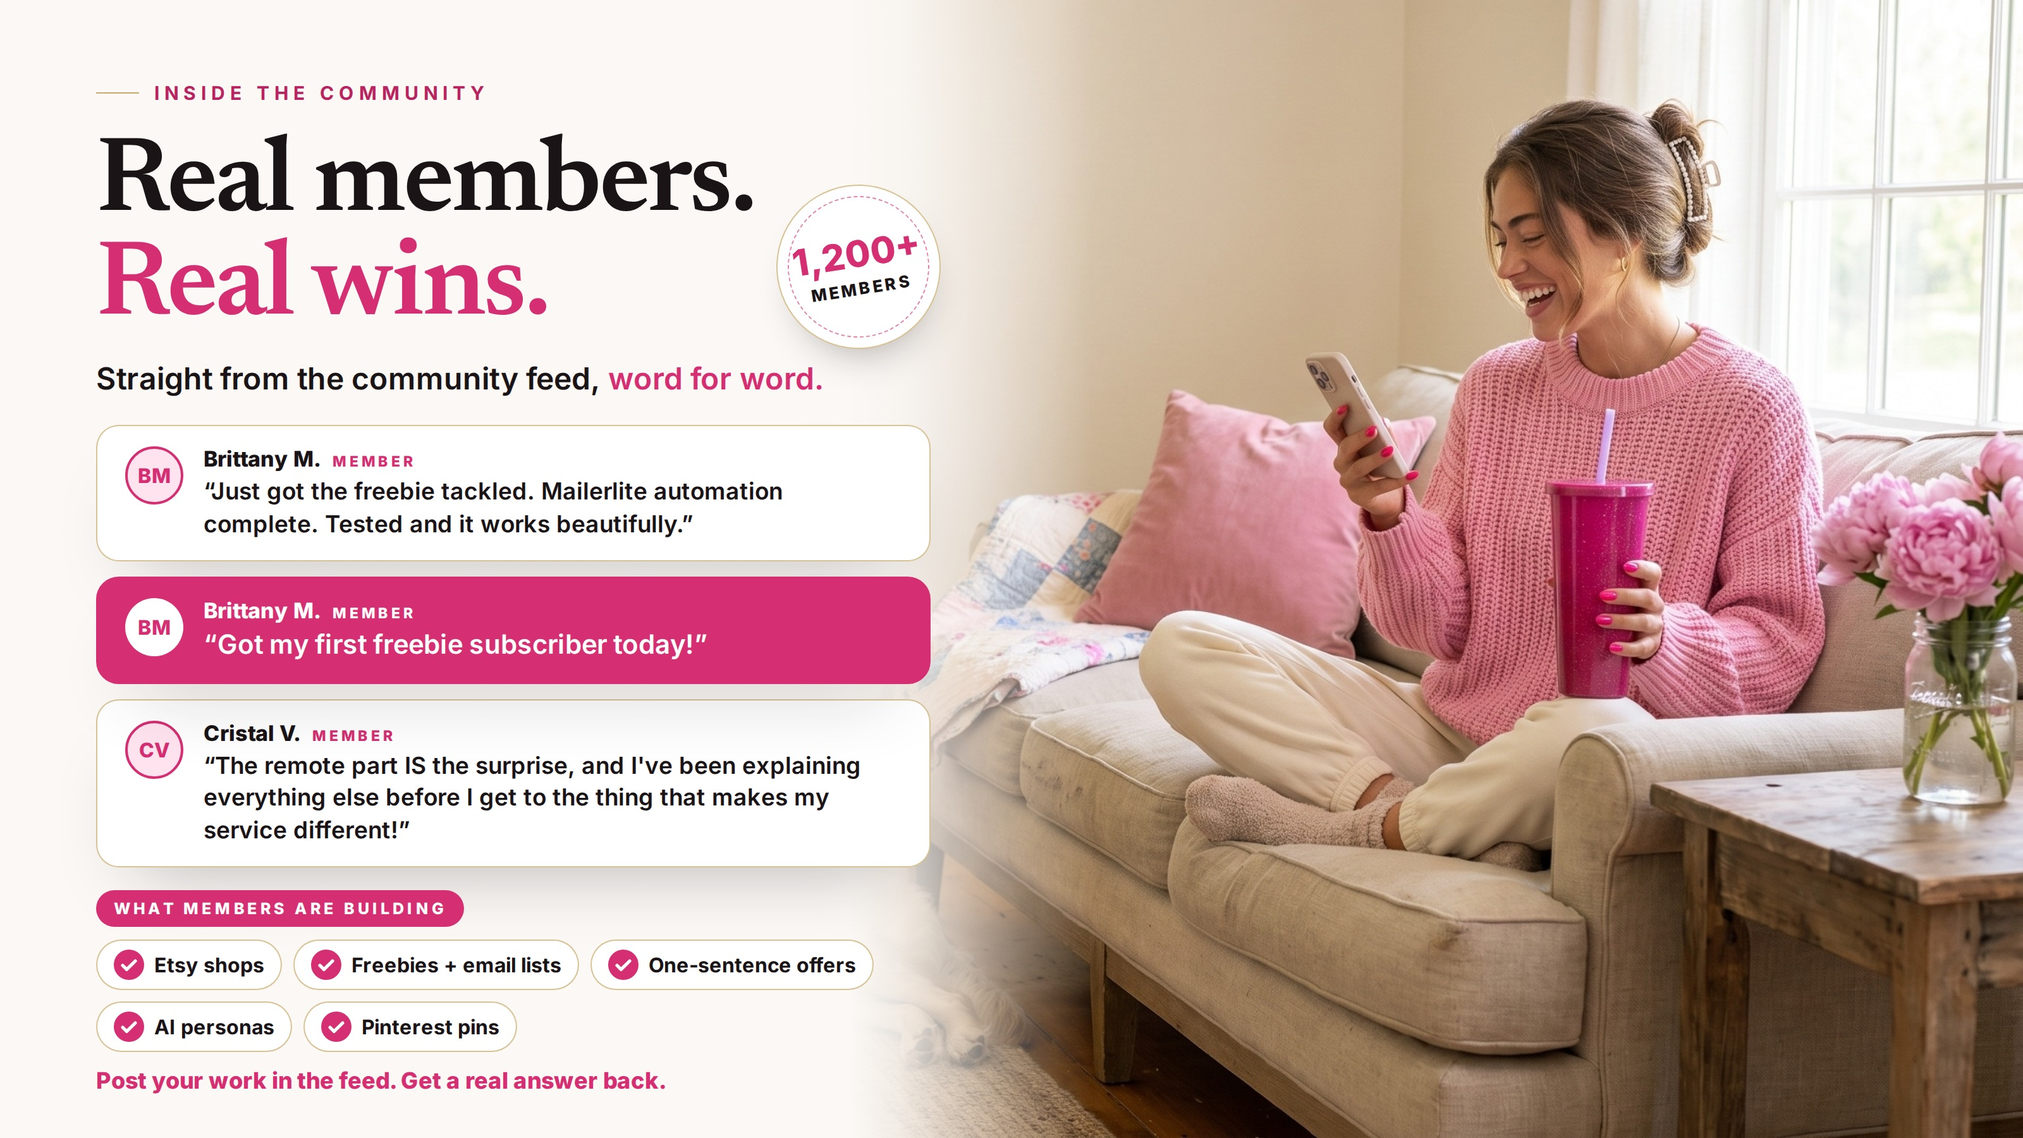
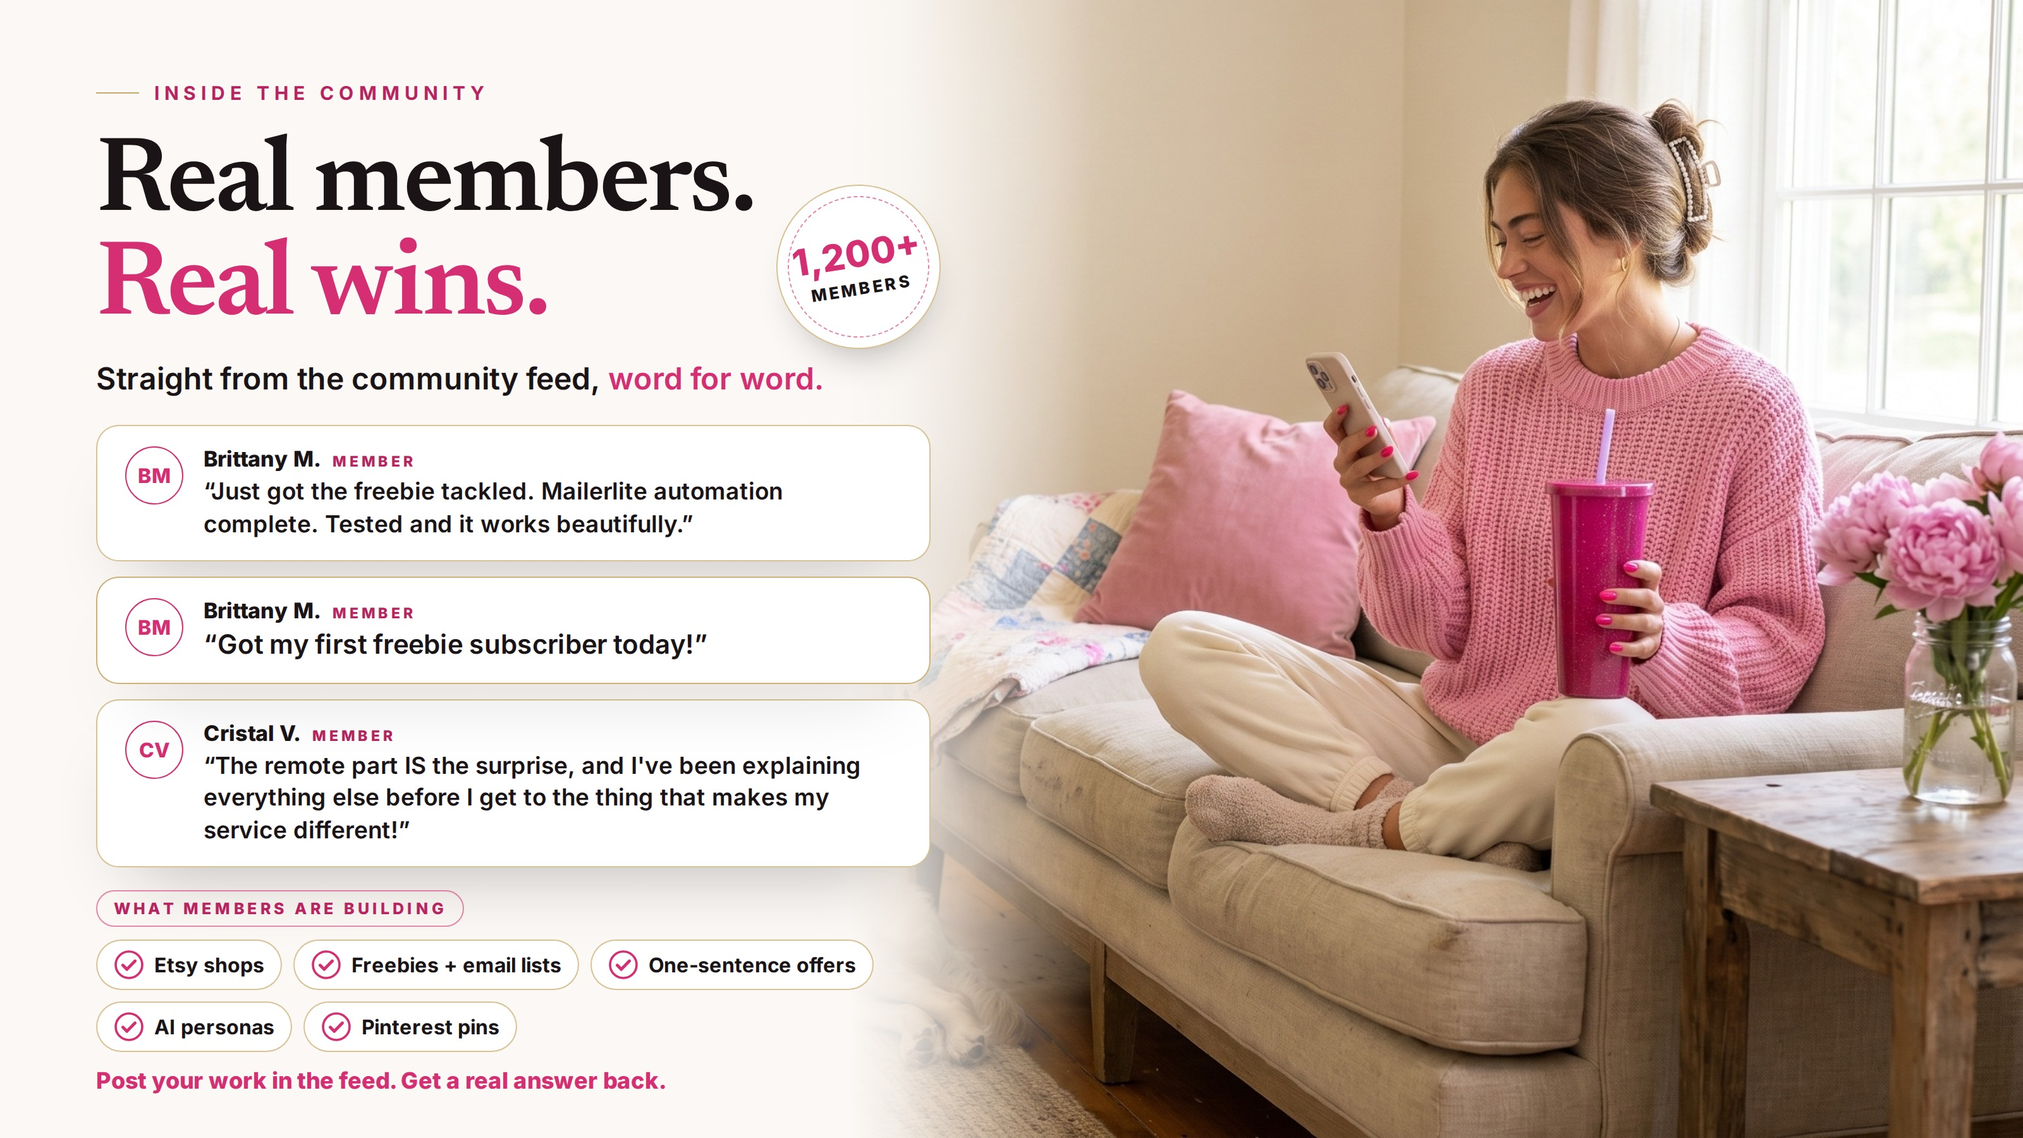
Standing rule: no hot pink boxes or buttons, anywhere; About gallery rebuilt to it
Founder rule written into AGENTS.md (CLAUDE.md), design rules, handoff rules,
canon and canon.json; every older 'pink hero card', 'pink pill' and 'pink
button' line overwritten. Gallery: all pink fills removed, checked at full size.

Claude-Session: https://claude.ai/code/session_01PPH1LEnvj2mFhkhq6X5V8q

diff --git a/ops/cloud-kit/TDIE_DESIGN_RULES.md b/ops/cloud-kit/TDIE_DESIGN_RULES.md
@@ -1,5 +1,7 @@
 # TDIE Design Rules (standing)
 
+> **🚫 NO HOT PINK BOXES OR BUTTONS (Jodie, 11 October 2026, standing rule; she has given it at least 12 times).** Never fill a box, card, panel, band, banner, strip, stat bar, tag, pill, badge, sticker, label, callout or button with hot pink, bubblegum pink, any other pink or any pink gradient. Not in a graphic, page, email, PDF, ad, pin, cover or slide. Not one "hero card", not a "pink pill", not a pink CTA button. She calls it the hot pink AI box and never wants to see it near her business again. Pink is allowed only as type (the turn phrase in a headline, kickers, small labels, prices, numbers), as thin rules and outlines, and in the photography. Cards, boxes and panels are white or cream with a Muted Gold hairline. Buttons are white or cream with near-black text and a hairline border; a pink arrow or pink underline is the most pink a button gets. Stickers are white with pink type. This overrides every older line in any file that calls for a glossy hot pink hero card, a pink gradient, a pink pill, a pink button, a pink badge fill or a pink sticker; those lines are dead.
+
 > **🖼 IMAGE RULES (Jodie, 25 September 2026; pink rule corrected 26 September 2026). Read before any image prompt or generation.** Every image prompt and every generated image follows `claude/TDIE_IMAGE_GENERATION_MASTER.md`, which wins over anything older in this document. Canon beats generic words like "luxury" or "editorial": Tommy Kate is photographed in her own world (farmhouse, pink attic gaming loft, porch, kitchen, living room, pasture, red barn, garden beds, golden retriever), never a Paris apartment, café, marble office, mansion or influencer set. Every prompt with her in it opens: "Photograph of this exact woman from the attached reference sheet. Identity is taken only from the reference." Her locked features are never written in words, not even as "same face" or "same freckles". **The pink rule:** any frame with her in it (full body, hands or boots) always includes her glitter-flecked pink iced coffee tumbler with a lavender straw, and the tumbler is never the only pink item: her clothes can be candy pink and other pink pieces can be in the frame with her. A frame without her carries pink is freely allowed throughout the scene. Real lens and real light language, photorealism language, no text or logos in the photo. **Tool order (standing rule):** any image with the avatar or a person goes to Google Gemini first, reference sheet attached, while Gemini has credits, then Nano Banana Pro at 2K on Higgsfield, reference sheet attached. Any image with no person goes to Seedream 4.5 on Higgsfield. Garbled text or an unsatisfactory image re-runs on Nano Banana Pro at 2K on Higgsfield. No other image generator besides Midjourney, which is also allowed whenever an image would come out better there (standing rule, Jodie, 3 October 2026, section M of claude/TDIE_IMAGE_GENERATION_MASTER.md); never Canva.
 
 ### 4 October 2026 · THE LOOK (founder instruction, Decision 128). This wins over anything softer below.
@@ -29,6 +31,7 @@ Every graphic must look like TDIE and Tommy Kate: her farmhouse and pink-loft wo
 - Solid stone or single-colour backgrounds with no photo ("no depth, no visuals, nothing popping, plain, ugly, looks AI").
 - Brown / Dark Chocolate (#2B161B) as any visible fill, panel, background, footer bar or button.
 - A full hot pink wash over the whole image ("too pink," 24 Sep 2026).
+- **The hot pink AI box and button (11 Oct 2026).** Any box, card, panel, band, stat bar, tag, pill, badge, sticker or button filled with hot pink, bubblegum pink or a pink gradient. See the rule at the top of this file.
 - The same persona photo reused across a set.
 - Off-brand settings and styling: Paris apartments, marble desks, black knits, café scenes, ink-black cards and seals ("does that look ANYTHING like my brand or avatar vibe?", 25 Sep 2026).
 - Describing her locked features (face, hair colour, eyes, skin, age) in words in an image prompt. Identity comes from the seed alone (canon Decision 89).
@@ -37,10 +40,10 @@ Every graphic must look like TDIE and Tommy Kate: her farmhouse and pink-loft wo
 - **Photography:** every image is Tommy Kate in her own world, a different place and outfit each time: the pink attic gaming loft with the retriever, the farmhouse kitchen island, the porch rocking chair with lilacs, the white living room sofa, the garden beds by the red barn. Generated from the avatar seed (`/images/library/avatar-seed-omni-reference.png`) with only the changeable layer written. Her glitter-flecked pink iced coffee tumbler with a lavender straw is in every photo of her, and it is never the only pink item: her clothes and other pieces can be candy pink. No lettering. Confident self-made luxury, lived in (Decision 128): bright and glowing, one sparkle moment, and a loud photo always sits on a calm part of the layout so photo and design never fight. Sharp and full-bleed, not blurred.
 - **Palette:** Luxury Cream #FBF8F5 base, Signature Hot Pink #D62E73, Bubblegum Pink #FF8AC2, Muted Gold #C8A96A as a thin line only, near-black #1A1417 text.
 - **Layout:** cream gradient scrim from the left holding the copy; Tommy Kate on the right. Brand line top-left: small pink dot plus "THE DIGITAL INCOME EDIT™" in wide-tracked caps.
-- **Cards:** frosted white glass with a thin gold border and deep soft pink-tinted shadows. One glossy hot pink gradient hero card per image with a light sheen.
-- **Stickers:** round white or bubblegum badges, tilted, dashed inner ring, pink type ("7 DAYS FREE", "1,200+ MEMBERS BUILDING"). Never over her face or body.
+- **Cards:** white or cream paper with a thin Muted Gold hairline and a soft neutral lift shadow. No glass, no glow. **No hot pink card of any kind** (the old "one glossy hot pink gradient hero card" line is dead, 11 Oct 2026). Emphasis comes from type size, a pink turn phrase or a thin pink rule, never a pink fill.
+- **Stickers:** round white badges only (never pink-filled), tilted, dashed inner ring, pink type ("7 DAYS FREE", "1,200+ MEMBERS BUILDING"). Never over her face or body.
 - **Type:** Newsreader SemiBold headlines in near-black with the turn phrase in hot pink; Inter for everything else; kickers Inter Bold uppercase, wide tracking, pink.
-- **CTA:** hot pink gradient pill button, white caps.
+- **CTA:** white or cream button with near-black caps and a hairline border; a pink arrow at most. **Never a hot pink or pink gradient button** (11 Oct 2026).
 - Render at 1600x900 @2x, export JPG quality 93 for Skool.
 
 ## Canon edits

diff --git a/AGENTS.md b/AGENTS.md
@@ -1,3 +1,6 @@
+## NO HOT PINK BOXES OR BUTTONS (Jodie, 11 October 2026, standing rule; she has given it at least 12 times)
+Never fill a box, card, panel, band, banner, strip, stat bar, tag, pill, badge, sticker, label, callout or button with hot pink, bubblegum pink, any other pink or any pink gradient. Not in a graphic, page, email, PDF, ad, pin, cover or slide. Not one "hero card", not a "pink pill", not a pink CTA button. She calls it the hot pink AI box and never wants to see it near her business again. Pink is allowed only as type (the turn phrase in a headline, kickers, small labels, prices, numbers), as thin rules and outlines, and in the photography. Cards, boxes and panels are white or cream with a Muted Gold hairline. Buttons are white or cream with near-black text and a hairline border; a pink arrow or pink underline is the most pink a button gets. Stickers are white with pink type. This overrides every older line in any file that calls for a glossy hot pink hero card, a pink gradient, a pink pill, a pink button, a pink badge fill or a pink sticker; those lines are dead.
+
 ## LOOK BEFORE YOU SEND (Jodie, 10 October 2026, standing rule, applies to every visual)
 Before sending, exporting, committing or calling done ANY visual (page, PDF, PNG, graphic, screenshot, banner, guide, website change):
 1. Render it and open EVERY page or screen at full size yourself. A contact sheet or thumbnail alone is not looking.
@@ -53,7 +56,7 @@ Do not enlarge page headlines when editing copy. Sales pages use the shared scal
 For every page change, inspect rendered screenshots of all affected pages on desktop and mobile, including the complete page, images, spacing, heading hierarchy, buttons, navigation, and overflow. After deploying, repeat the visual audit against the actual public deployment and verify the new version is live. A successful build or deployment status alone is not visual QA. Fix visible issues before claiming completion. If live rendering is inaccessible, report the audit as blocked rather than claiming it passed.
 
 ## Brand look (Jodie, 4 October 2026, Decision 128; clarified 11:30 am Eastern)
-Before any visual or page work, read `ops/cloud-kit/TDIE_DESIGN_RULES.md` (section "THE LOOK"). The Digital Income Edit™ brand is loud, pink, sparkly, confident and girly: a big pink glittery mashup of a self-made millionaire and a sparkly grown-up pop-star princess in a homestead mom package. It must read luxury, never cheap. Never describe or design the brand as minimalist, clean and modern, beige, neutral, quiet, editorial calm or "luxury editorial". Headlines are Newsreader SemiBold, upright, never italic; everything else is Inter, including prices, labels, body text and buttons. Never use Fraunces, Cormorant Garamond or Montserrat anywhere. Never use brown or dark chocolate as a fill or background, including cards, panels, footers and buttons. Break up text with stickers, callout boxes, badges and pull quotes. Every clickable card shows its name and a button.
+Before any visual or page work, read `ops/cloud-kit/TDIE_DESIGN_RULES.md` (section "THE LOOK"). The Digital Income Edit™ brand is loud, pink, sparkly, confident and girly: a big pink glittery mashup of a self-made millionaire and a sparkly grown-up pop-star princess in a homestead mom package. It must read luxury, never cheap. Never describe or design the brand as minimalist, clean and modern, beige, neutral, quiet, editorial calm or "luxury editorial". Headlines are Newsreader SemiBold, upright, never italic; everything else is Inter, including prices, labels, body text and buttons. Never use Fraunces, Cormorant Garamond or Montserrat anywhere. Never use brown or dark chocolate as a fill or background, including cards, panels, footers and buttons. Break up text with stickers, callout boxes, badges and pull quotes. Every clickable card shows its name and a button. No hot pink boxes or buttons, ever: see the rule at the top of this file.
 Headline sizes still follow the sales-page typography rule above and the headline lock. These explicit founder rules supersede conflicting older brand instructions.
 
 ## Actual production host

diff --git a/ops/ai-router/TDIE_CURRENT_HANDOFF_RULES_2026-10-04.md b/ops/ai-router/TDIE_CURRENT_HANDOFF_RULES_2026-10-04.md
@@ -7,7 +7,7 @@ BRAND
 The Digital Income Edit™ is loud, pink, sparkly, confident and girly: a big pink glittery mashup of a self-made millionaire and a sparkly grown-up pop-star princess, in a homestead mom package. Luxury, never cheap, gaudy or crowded. Retire minimalist, clean and modern, beige, neutral, quiet, editorial calm, luxury editorial and cookie-cutter brand direction. Break up text with stickers, callout boxes, numbered badges, pull quotes and annotated arrows. Every clickable card or image visibly shows its name and a button.
 
 TYPE AND COLOUR
-Newsreader SemiBold headlines, upright, never italic. Inter for everything else. Fraunces, Cormorant Garamond and Montserrat are prohibited. Signature Hot Pink #D62E73; Bubblegum Pink #FF8AC2; Luxury Cream #FBF8F5; Muted Gold #C8A96A for thin lines only; near-black #1A1417 for text. Brown and Dark Chocolate are never fills, panels, footers, buttons or backgrounds. No hex codes in generator prompts; use colour name plus shade, such as saturated candy pink, never pale. Preserve headline limits: H1 at most 52px desktop/36px mobile; H2 at most 40px desktop/30px mobile. Verify affected rendered pages after deployment.
+Newsreader SemiBold headlines, upright, never italic. Inter for everything else. Fraunces, Cormorant Garamond and Montserrat are prohibited. Signature Hot Pink #D62E73; Bubblegum Pink #FF8AC2; Luxury Cream #FBF8F5; Muted Gold #C8A96A for thin lines only; near-black #1A1417 for text. Brown and Dark Chocolate are never fills, panels, footers, buttons or backgrounds. NO HOT PINK BOXES OR BUTTONS (Jodie, 11 October 2026, standing rule; she has given it at least 12 times): Never fill a box, card, panel, band, banner, strip, stat bar, tag, pill, badge, sticker, label, callout or button with hot pink, bubblegum pink, any other pink or any pink gradient. Not in a graphic, page, email, PDF, ad, pin, cover or slide. Not one "hero card", not a "pink pill", not a pink CTA button. She calls it the hot pink AI box and never wants to see it near her business again. Pink is allowed only as type (the turn phrase in a headline, kickers, small labels, prices, numbers), as thin rules and outlines, and in the photography. Cards, boxes and panels are white or cream with a Muted Gold hairline. Buttons are white or cream with near-black text and a hairline border; a pink arrow or pink underline is the most pink a button gets. Stickers are white with pink type. This overrides every older line in any file that calls for a glossy hot pink hero card, a pink gradient, a pink pill, a pink button, a pink badge fill or a pink sticker; those lines are dead. No hex codes in generator prompts; use colour name plus shade, such as saturated candy pink, never pale. Preserve headline limits: H1 at most 52px desktop/36px mobile; H2 at most 40px desktop/30px mobile. Verify affected rendered pages after deployment.
 
 TOMMY KATE
 Photography register: confident self-made luxury, lived in. A loud, happy, self-made millionaire who chose the farm. Bright high-key true-colour daylight; warm practical night light, never murky. Exactly ONE sparkle moment per photo: glitter or rhinestone cowboy boots, pearl and chrome jewellery, a rhinestone claw clip, glossy hot pink manicure, or her tumbler catching light. No glitter everywhere, clutter, costume, mansion or generic rich-girl set. A loud photo sits on a calm layout; a loud background gets a calmer photo. No sequin jackets, blouses or blazers. Comfy base: oversized pink knits, soft tees, hoodies, sweatpants, leggings, fuzzy socks, ribbed tanks, high-waisted vintage denim and worn boots. Her glitter-flecked candy-pink iced coffee tumbler with a lavender straw is in every frame she appears in, including hands-only or boots-only frames, and is never the only pink item.

diff --git a/ops/canon/TDIE_CANON.md b/ops/canon/TDIE_CANON.md
@@ -345,7 +345,9 @@ Variable axis order — wrong order silently applies default weights:
 
 **Site and graphic look (Decision 128, 4 October 2026, founder instruction).** The brand is loud, pink, sparkly, confident and girly: a big pink glittery mashup of a self-made millionaire and a sparkly grown-up pop-star princess, in a homestead mom package. It must read as LUXURY, never cheap: real-looking glitter, sequins, pearl, chrome and holographic foil with depth and light catching on them, used for the big moments rather than as wallpaper in every section; frosted glass cards with a thin gold border and deep soft pink-tinted shadows; one glossy hot pink hero card per section; round tilted stickers, callout boxes, numbered badges, pull quotes and annotated arrows that break up every block of words so no reader skims past a feature; every clickable card or image visibly labelled with its name and a button. Never minimalist, never clean-and-modern, never beige, never quiet editorial calm, never cookie-cutter, never a wall of words. Applies to the website, every sales page and every designed graphic. Persona photography follows the matching register below (confident self-made luxury, lived in), and a loud photo always sits on a calm part of the layout so the two never clash.
 
-**Tier badges.** Standard `#FF8AC2` · Premium `#D62E73`. The Free badge is retired with the free tier. Gold and Lavender badges for standalones and member rewards are proposed, not canon.
+**NO HOT PINK BOXES OR BUTTONS (Jodie, 11 October 2026, standing rule; she has given it at least 12 times).** Never fill a box, card, panel, band, banner, strip, stat bar, tag, pill, badge, sticker, label, callout or button with hot pink, bubblegum pink, any other pink or any pink gradient. Not in a graphic, page, email, PDF, ad, pin, cover or slide. Not one "hero card", not a "pink pill", not a pink CTA button. She calls it the hot pink AI box and never wants to see it near her business again. Pink is allowed only as type (the turn phrase in a headline, kickers, small labels, prices, numbers), as thin rules and outlines, and in the photography. Cards, boxes and panels are white or cream with a Muted Gold hairline. Buttons are white or cream with near-black text and a hairline border; a pink arrow or pink underline is the most pink a button gets. Stickers are white with pink type. This overrides every older line in any file that calls for a glossy hot pink hero card, a pink gradient, a pink pill, a pink button, a pink badge fill or a pink sticker; those lines are dead.
+
+**Tier badges.** Standard `#FF8AC2` · Premium `#D62E73`, as the colour of the badge's type and outline only, never as a fill (11 Oct 2026). The Free badge is retired with the free tier. Gold and Lavender badges for standalones and member rewards are proposed, not canon.
 
 **Text is set, never generated — for nano banana (Gemini) only.** Canva AI renders text accurately; do not strip text from Canva prompts and do not warn about garbled letterforms.
 

diff --git a/ops/cloud-output/about-gallery-2026-10/README.md b/ops/cloud-output/about-gallery-2026-10/README.md
@@ -29,7 +29,7 @@ None of these four files exist in the repo; they were not made from this folder.
 
 The first pass of this set was rejected by Jodie the same day: hot pink gradient cards, glass and glow effects, and photos that were not Tommy Kate enough (white modern kitchen and living room, a beam down the loft wall, a clean new porch, none of her named props). This pass fixes both.
 
-- **No gradients, no glass, no glow.** Follows the site's own system in `src/styles/edit.css` ("No glass, no glow, no gradients on buttons. Depth comes from scale, crop and contrast."): solid Signature Hot Pink cards and buttons, white paper cards with a Muted Gold hairline and a plain lift shadow, gold-hairline kickers. The only gradient left is the cream fade from the copy into the photo, which is the approved 25 September layout. No fake sparkle in the design; the one sparkle moment is in each photo.
+- **No hot pink boxes or buttons (Jodie, 11 Oct 2026, standing rule now at the top of AGENTS.md and the design rules).** Every card, tag, number badge, sticker, stat bar and button is white or cream with a Muted Gold or near-black hairline. Pink appears only as type (turn phrases, kickers, numbers, prices), thin outlines and in the photos. No gradients, no glass, no glow; the only gradient is the cream fade from the copy into the photo.
 - **Type:** Newsreader SemiBold upright headlines, Inter for everything else, no italics, no brown.
 - **Photos copied from her world file** (`ops/cloud-kit/TDIE_DFY_CALENDAR_TOMMY_KATE_WORLD.md` and the 4 Oct handoff rules), Nano Banana Pro 2K on Higgsfield, avatar seed attached, "this exact woman" opening, no locked feature written:
   - **Hero, pink attic loft:** ivy-wrapped ceiling beams, plush pink shag rug, pastel pink gaming desk, glass-panel PC glowing pink, Hello Kitty and Kuromi plushies, the grey British Shorthair cat, lavender controller with the strawberry charm, candy-pink headphones, scrunchie, fuzzy socks.
